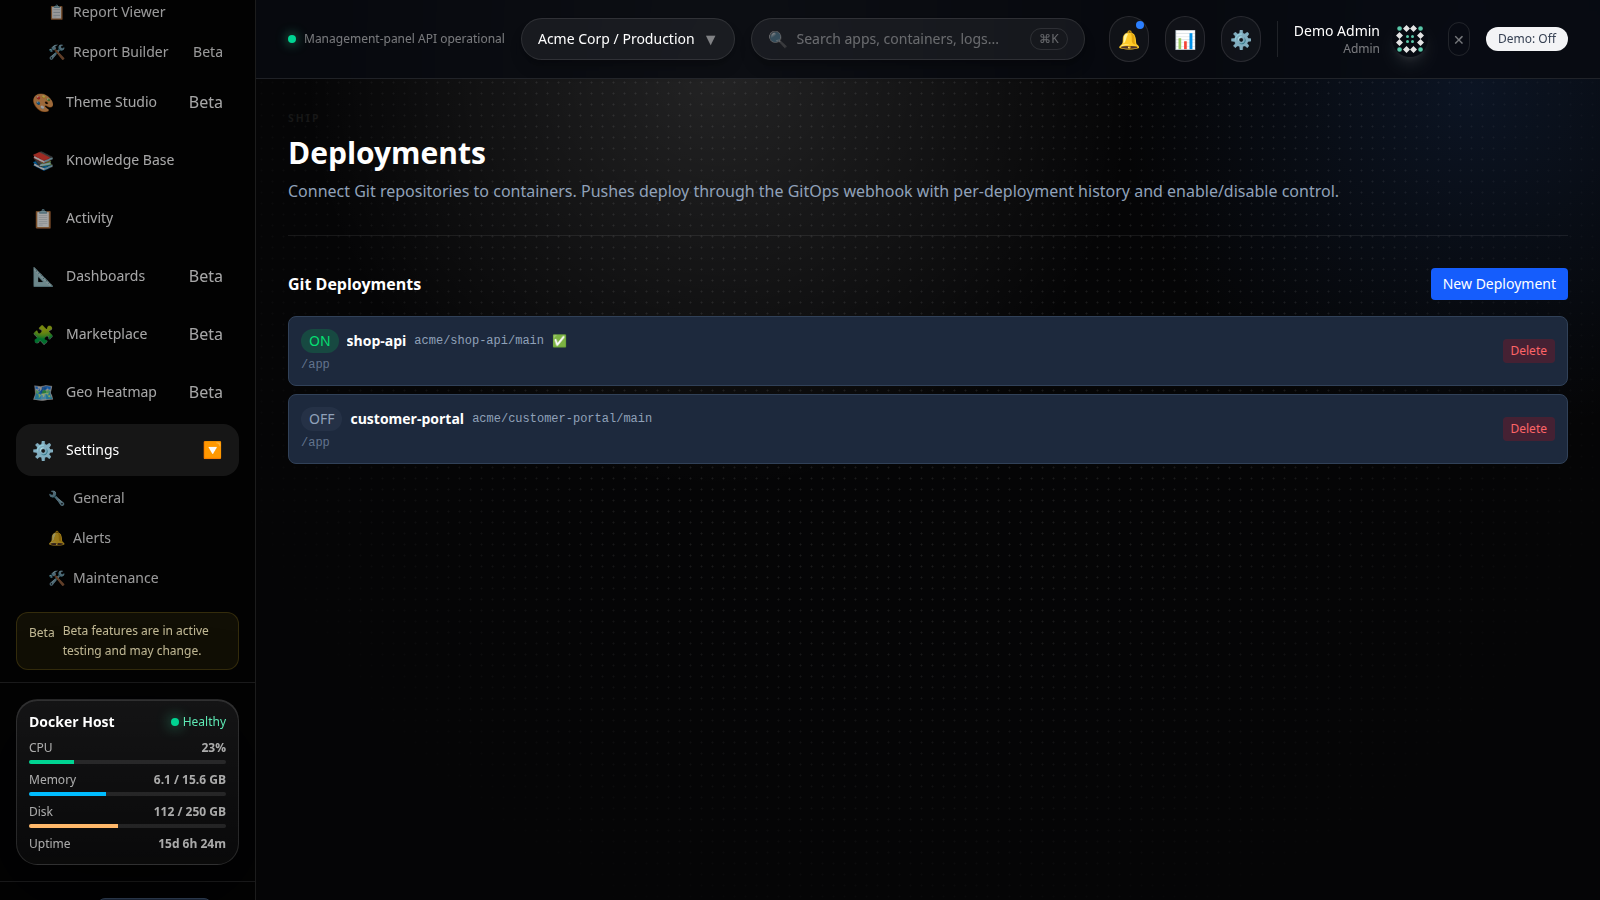
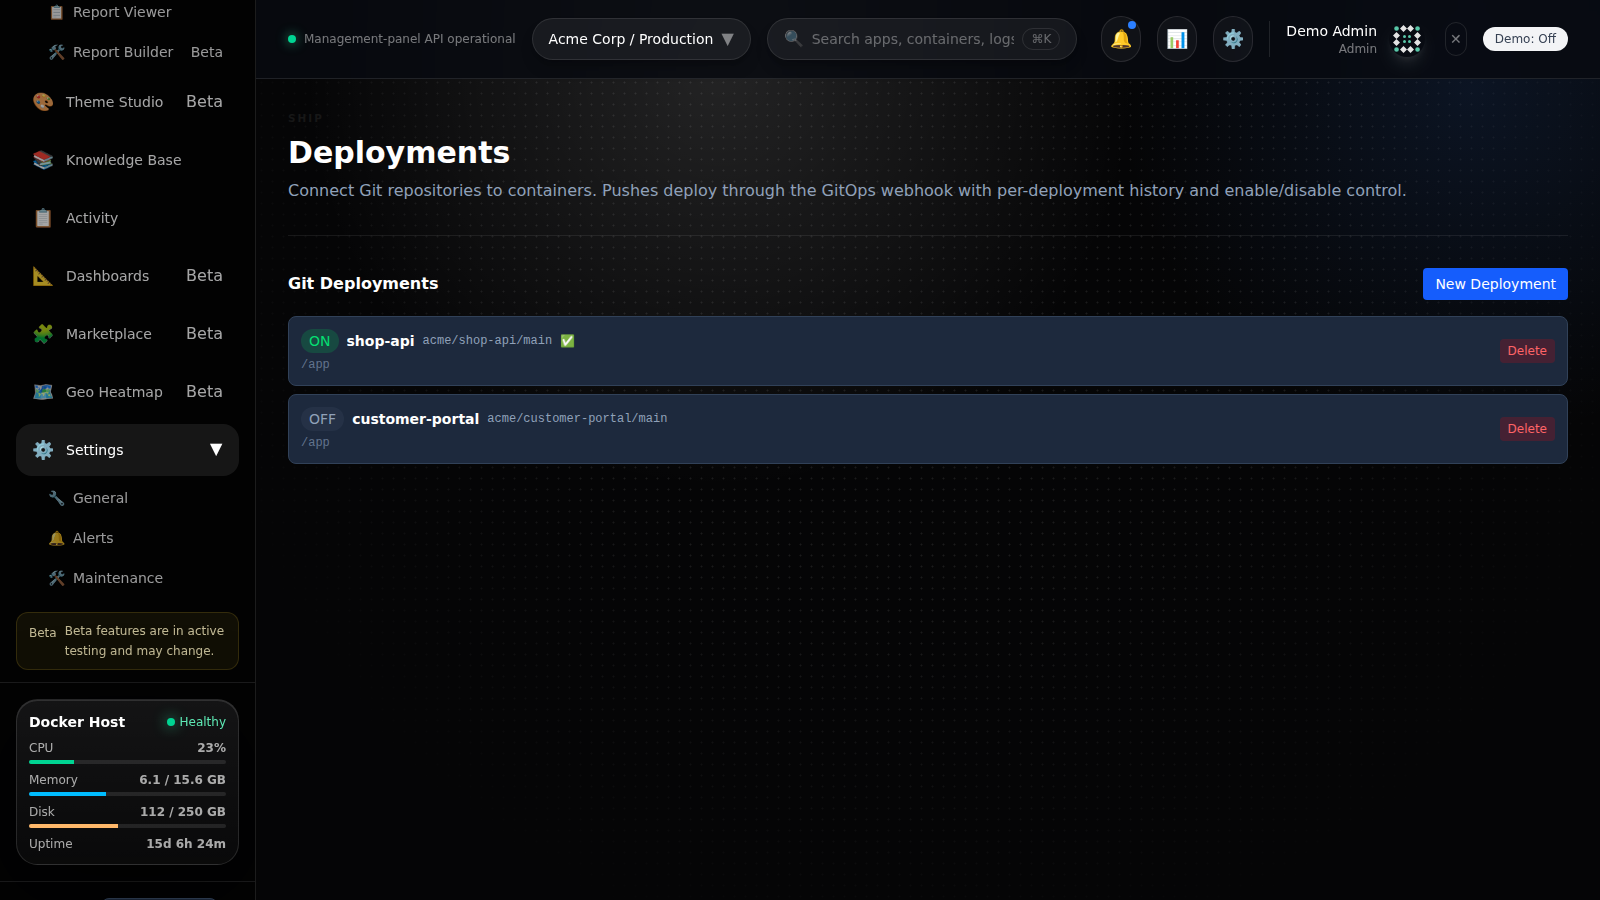
ci: auto-capture panel screenshots on every PR (#456)
* ci: auto-capture panel screenshots on every PR

* docs(screenshots): refresh panel captures [skip ci]

* fix(screenshots): isolate write access and correct degraded status

* docs(screenshots): refresh panel captures [skip ci]

---------

diff --git a/docs/screenshots/README.md b/docs/screenshots/README.md
@@ -45,6 +45,13 @@ enough to pass the `check-added-large-files` hook.
 
 ## Regenerating
 
+### 0. CI (automatic)
+
+Every PR touching `services/management-panel/` (or a manual run of the `Screenshots` workflow) captures all
+six PNGs plus `tour.gif` on `ubuntu-latest`. PR runs commit them back into the PR branch with `[skip ci]`;
+manual `workflow_dispatch` runs commit them to the selected workflow branch with `[skip ci]`. No local run
+needed; fork PRs get the images as run artifacts instead. Artifacts are also uploaded per run.
+
 Use browser captures for future updates. The capture script includes safe demo
 API responses, so it can run without a separate backend or personal data.
 
@@ -55,7 +62,7 @@ Python 3 with Pillow installed (`python3 -m pip install Pillow`) to rebuild the 
 
 ```bash
 cd services/management-panel
-npm install --legacy-peer-deps
+npm ci --legacy-peer-deps
 npx playwright install chromium
 npm run dev:frontend &
 node ../../scripts/capture-screenshots.mjs
